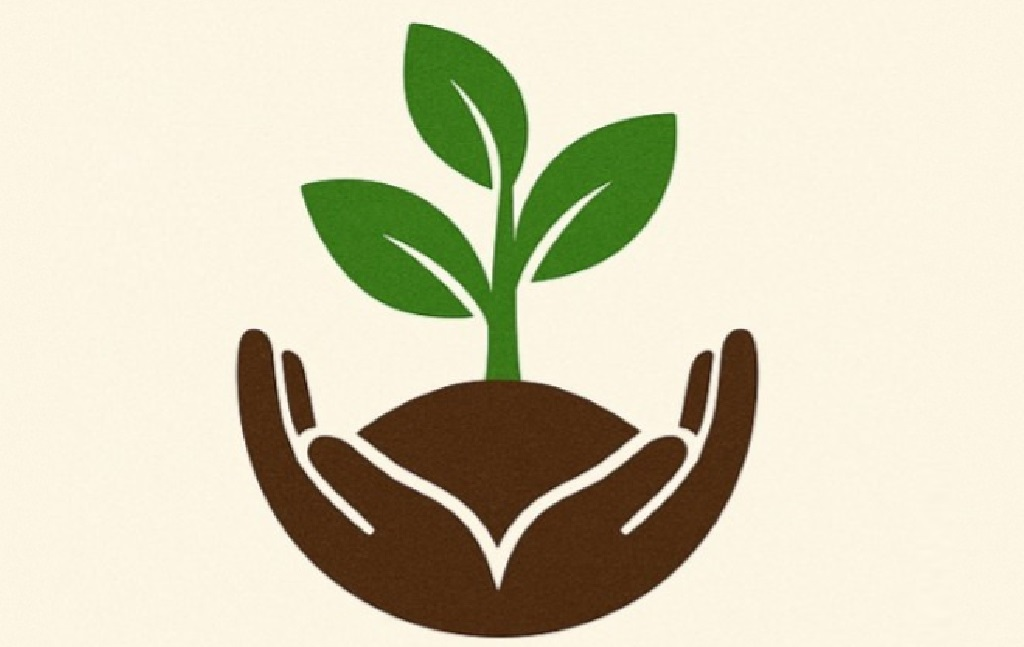
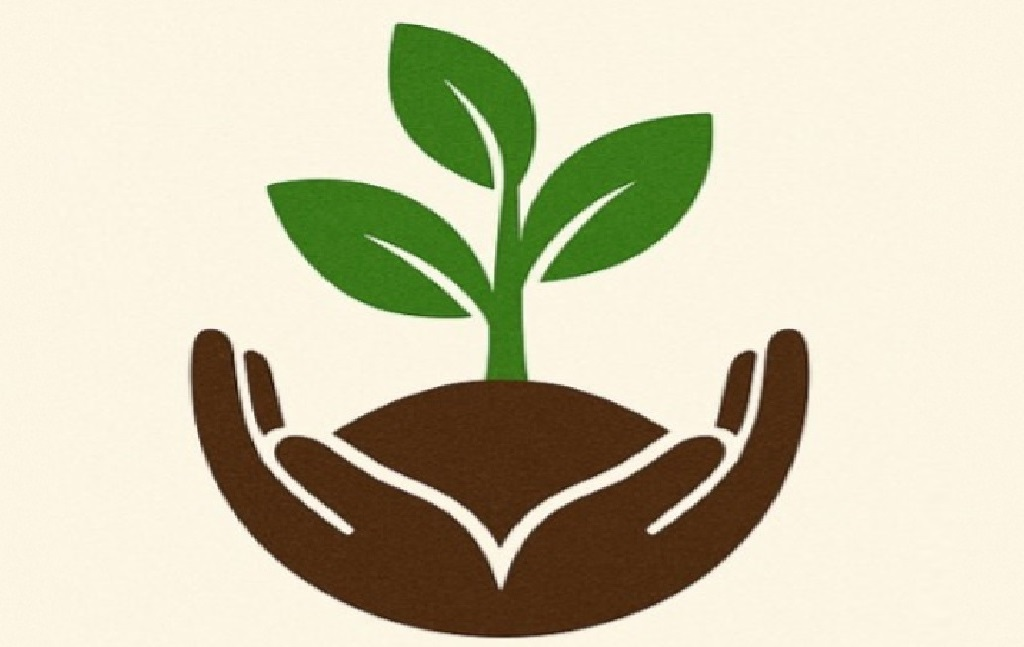
ahora si todo esta funcional, en este commit elimine ese boton de ocultar

diff --git a/src/pages/MyServicesPage.jsx b/src/pages/MyServicesPage.jsx
@@ -202,21 +202,6 @@ const MyServicesPage = () => {
                     </Link>
 
                     <div className="grid grid-cols-2 gap-2">
-                      <button
-                        onClick={() => togglePublishStatus(service._id, service.isPublished)}
-                        className={`flex items-center justify-center py-2 px-4 rounded-lg transition duration-300 text-sm font-semibold
-                          ${service.isPublished ? 
-                            'bg-green-100 hover:bg-green-200 text-green-800' : 
-                            'bg-gray-100 hover:bg-gray-200 text-gray-800'
-                          }`}
-                      >
-                        {service.isPublished ? (
-                          <FiToggleRight className="mr-1 text-green-500" />
-                        ) : (
-                          <FiToggleLeft className="mr-1 text-gray-500" />
-                        )}
-                        {service.isPublished ? 'Publicado' : 'Oculto'}
-                      </button>
 
                       <div className="flex space-x-2">
                         <Link

diff --git a/src/pages/MyRentalsPage.jsx b/src/pages/MyRentalsPage.jsx
@@ -202,21 +202,6 @@ const MyRentalsPage = () => {
                     </Link>
 
                     <div className="grid grid-cols-2 gap-2">
-                      <button
-                        onClick={() => togglePublishStatus(rental._id, rental.isPublished)}
-                        className={`flex items-center justify-center py-2 px-4 rounded-lg transition duration-300 text-sm font-semibold
-                          ${rental.isPublished ? 
-                            'bg-green-100 hover:bg-green-200 text-green-800' : 
-                            'bg-gray-100 hover:bg-gray-200 text-gray-800'
-                          }`}
-                      >
-                        {rental.isPublished ? (
-                          <FiToggleRight className="mr-1 text-green-500" />
-                        ) : (
-                          <FiToggleLeft className="mr-1 text-gray-500" />
-                        )}
-                        {rental.isPublished ? 'Publicado' : 'Oculto'}
-                      </button>
 
                       <div className="flex space-x-2">
                         <Link

diff --git a/src/components/MisPublicaciones.jsx b/src/components/MisPublicaciones.jsx
@@ -203,14 +203,6 @@ const MisPublicaciones = () => {
                         </div>
                     </div>
                     <div className="mt-4 md:mt-0 flex items-center space-x-3">
-                        <button
-                            onClick={() => togglePublishStatus(publication._id, publication.isPublished, publication.type)}
-                            className={`px-3 py-1 text-xs font-semibold rounded-full ${
-                                publication.isPublished ? 'bg-green-100 text-green-800' : 'bg-gray-100 text-gray-800'
-                            }`}
-                        >
-                            {publication.isPublished ? 'Publicado' : 'Oculto'}
-                        </button>
                         <div className="flex space-x-2">
                             <button 
                                 className="p-2 text-gray-500 hover:text-blue-600 transition-colors"
